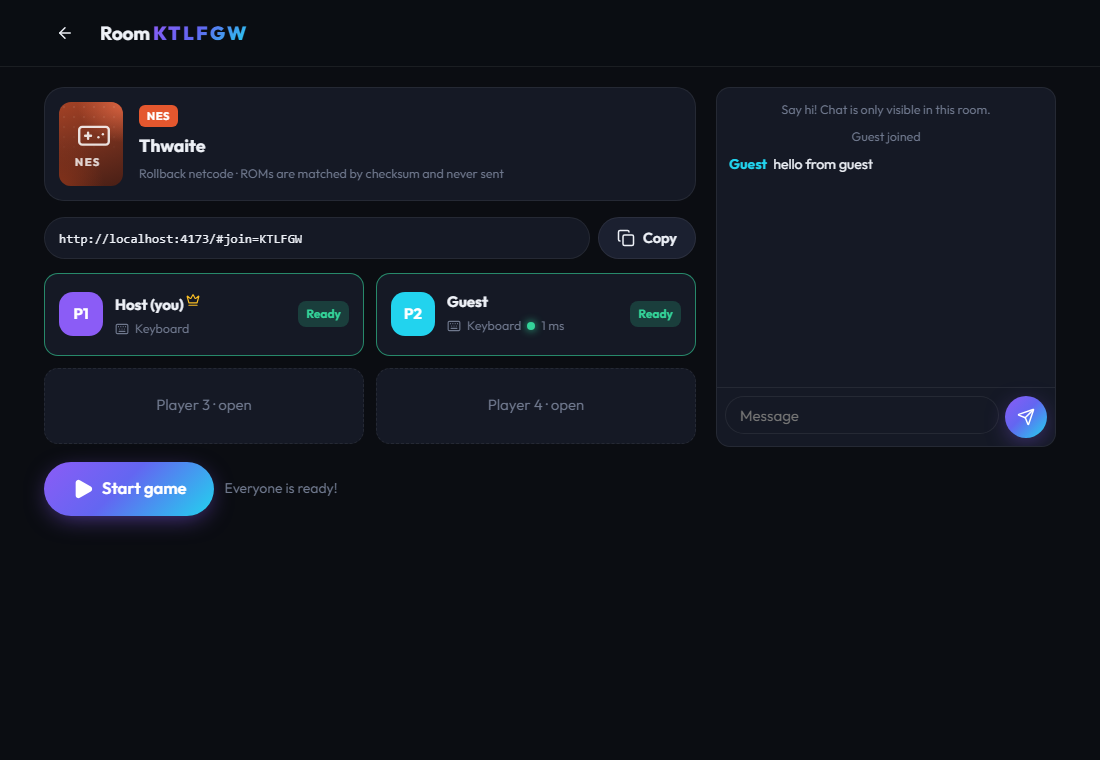
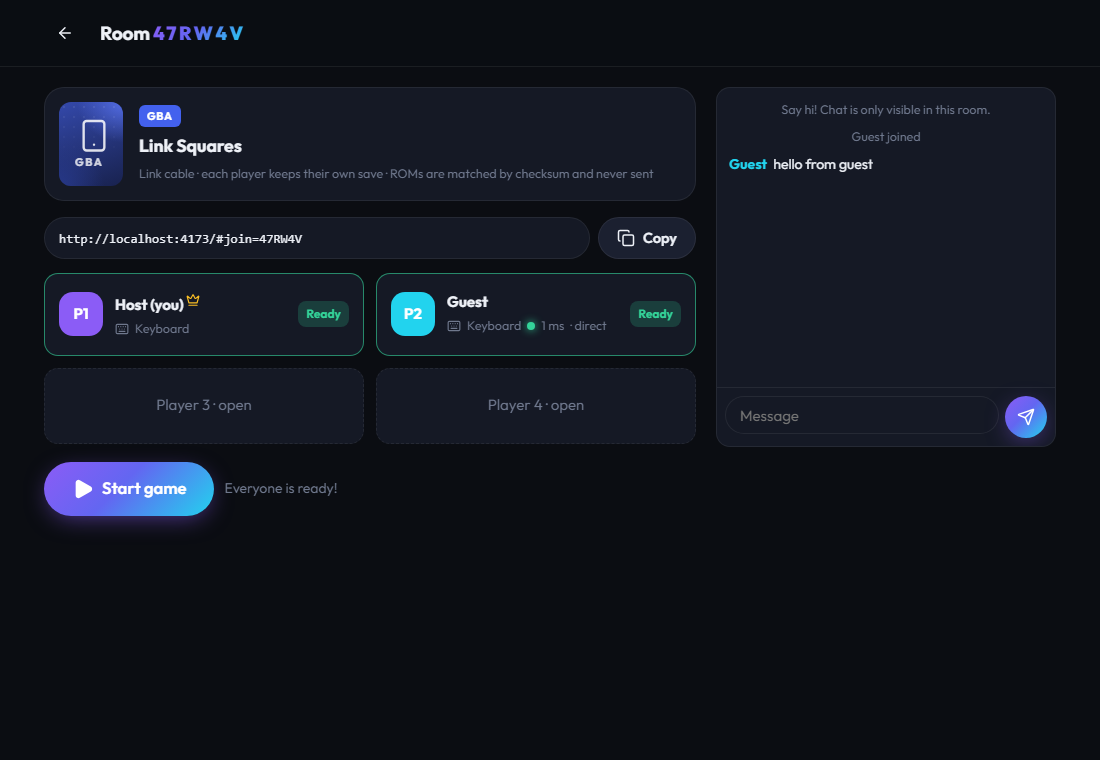
Online GBA link-cable multiplayer (2-4 players): link rooms, contiguous ports, battery-save exchange so each player keeps their own save, link core in the worker; verified in two browsers via Cloudflare
Claude-Session: https://claude.ai/code/session_01GoaTN1pd88UZCAW9Lq8UvL

diff --git a/src/net/session.ts b/src/net/session.ts
@@ -7,6 +7,9 @@ import type { Input } from '../engine/input.ts';
 import { padKind } from '../engine/input.ts';
 import { SYSTEMS } from '../engine/systems.ts';
 import { toast } from '../app/store.ts';
+import { db } from '../app/db.ts';
+
+type StartCfg = { players: number[]; delay: number; maxRollback: number; link?: boolean };
 
 export const ICE_SERVERS: RTCIceServer[] = [{ urls: ['stun:stun.l.google.com:19302', 'stun:stun1.l.google.com:19302'] }];
 
@@ -19,7 +22,8 @@ type Relay =
   | { k: 'hello'; name: string; hasRom: boolean | null; pad: string }
   | { k: 'ready'; ready: boolean } | { k: 'spectate'; on: boolean } | { k: 'chat'; text: string }
   | { k: 'lobby'; state: LobbyState } | { k: 'chatline'; line: ChatLine }
-  | { k: 'start'; players: number[]; delay: number; maxRollback: number }
+  | { k: 'start'; players: number[]; delay: number; maxRollback: number; link?: boolean }
+  | { k: 'sram'; port: number; i: number; n: number; data: string }
   | { k: 'loaded' } | { k: 'go' } | { k: 'rom'; hasRom: boolean | null }
   // fallback transport through the signaling server when no direct WebRTC channel is open
   | { k: 'net'; m: NetMsg } | { k: 'syncPart'; from: number; frame: number; i: number; n: number; data: string };
@@ -34,8 +38,11 @@ export class NetSession {
   error = '';
   private peers = new Map<string, Peer>();
   private ls = new Set<() => void>();
-  onStart?: (cfg: { players: number[]; delay: number; maxRollback: number }) => void;
-  private startCfg: { players: number[]; delay: number; maxRollback: number } | null = null;
+  onStart?: (cfg: StartCfg) => void;
+  private startCfg: StartCfg | null = null;
+  /** link play: everyone's battery save, gathered before boot (port -> chunks) */
+  private sramParts = new Map<number, string[]>();
+  private sramWaiter: (() => void) | null = null;
   private loaded = new Set<string>();
   private goResolve: (() => void) | null = null;
   private sess: Session | null = null;
@@ -200,6 +207,14 @@ export class NetSession {
   // ---------------- lobby (host authoritative) ----------------
   private onRelay(from: string, d: Relay) {
     if (d.k === 'net') { this.sess?.emu.netReceive(d.m); return; }
+    if (d.k === 'sram') {
+      const parts = this.sramParts.get(d.port) ?? [];
+      parts[d.i] = d.data;
+      this.sramParts.set(d.port, parts);
+      this.sramTotals.set(d.port, d.n);
+      this.sramWaiter?.();
+      return;
+    }
     if (d.k === 'syncPart') {
       this.syncParts[d.i] = d.data;
       if (this.syncParts.filter(Boolean).length === d.n) {
@@ -277,17 +292,19 @@ export class NetSession {
   start(opts: { inputDelay: number | 'auto'; maxRollback: number }) {
     if (!this.isHost || this.canStart()) return;
     const sys = SYSTEMS[this.state.game!.system];
-    const players = this.state.peers.filter(p => p.port !== null).map(p => p.port!).sort();
+    // renumber player slots 0..n-1 so a link cable / port list never has gaps
+    this.state.peers.filter(p => p.port !== null).sort((a, b) => a.port! - b.port!).forEach((p, i) => { p.port = i; });
+    const players = this.state.peers.filter(p => p.port !== null).map(p => p.port!).sort((a, b) => a - b);
     const worst = Math.max(0, ...this.state.peers.filter(p => p.port !== null && p.id !== this.me).map(p => p.ping));
     const oneWayFrames = worst / 2 / (1000 / 60);
     const maxRollback = sys.rollback ? opts.maxRollback : 0;
     const delay = opts.inputDelay !== 'auto' ? opts.inputDelay
       : maxRollback ? Math.min(4, Math.max(0, Math.round(oneWayFrames) - 1)) : Math.min(8, Math.max(2, Math.ceil(oneWayFrames) + 1));
-    const cfg = { players, delay, maxRollback };
+    const cfg: StartCfg = { players, delay, maxRollback, link: sys.id === 'gba' };
     this.startCfg = cfg;
     this.state.started = true;
+    this.pushLobby(); // (renumbered ports) must reach everyone before 'start'
     this.relay({ k: 'start', ...cfg });
-    this.pushLobby();
     this.onStart?.(cfg);
   }
 
@@ -300,7 +317,12 @@ export class NetSession {
       if (this.isHost) { sess.emu.netResync(); toast(`Desync at frame ${frame} — resyncing everyone`, 'rotate', 'warn'); }
       console.warn('[netplay] desync detected at frame', frame);
     });
-    await sess.start({ netplay: true });
+    if (cfg.link) {
+      // GBA link cable: each machine runs every player's GBA, each with that player's own save
+      const mine = this.mePeer?.port ?? null;
+      const srams = await this.exchangeSrams(mine, cfg.players.length);
+      await sess.start({ netplay: true, link: { players: cfg.players.length, srams, view: mine ?? 0 } });
+    } else await sess.start({ netplay: true });
     sess.emu.pause();
     const go = new Promise<void>(res => { this.goResolve = res; });
     if (this.isHost) { this.loaded.add(this.me); this.checkGo(); } else this.relay({ k: 'loaded' }, this.state.hostId);
@@ -308,6 +330,36 @@ export class NetSession {
     sess.emu.netStart({ localPort: this.mePeer?.port ?? -1, players: cfg.players, inputDelay: cfg.delay, maxRollback: cfg.maxRollback });
     await sess.emu.resume();
     toast(cfg.maxRollback ? `Online · ${cfg.delay}f delay · rollback on` : `Online · ${cfg.delay}f delay`, 'users', 'success');
+  }
+
+  /** Send our battery save to everyone and collect theirs (empty string = no save). */
+  private async exchangeSrams(mine: number | null, players: number): Promise<(ArrayBuffer | null)[]> {
+    if (mine !== null) {
+      const s = await db.sram(this.state.game!.id);
+      let bin = '';
+      if (s) for (let i = 0; i < s.length; i += 0x8000) bin += String.fromCharCode(...s.subarray(i, i + 0x8000));
+      const b64 = btoa(bin), CH = 48000, n = Math.max(1, Math.ceil(b64.length / CH));
+      for (let i = 0; i < n; i++) this.relay({ k: 'sram', port: mine, i, n, data: b64.slice(i * CH, (i + 1) * CH) });
+      this.sramParts.set(mine, [b64]);
+      this.sramTotals.set(mine, 1);
+    }
+    const ready = () => Array.from({ length: players }, (_, p) => this.sramComplete(p)).every(Boolean);
+    if (!ready()) await Promise.race([
+      new Promise<void>(res => { this.sramWaiter = () => { if (ready()) res(); }; }),
+      new Promise((_, rej) => setTimeout(() => rej(new Error("Couldn't receive every player's save data.")), 30000)),
+    ]);
+    this.sramWaiter = null;
+    return Array.from({ length: players }, (_, p) => {
+      const b64 = this.sramParts.get(p)!.join('');
+      return b64 ? Uint8Array.from(atob(b64), c => c.charCodeAt(0)).buffer as ArrayBuffer : null;
+    });
+  }
+  private sramTotals = new Map<number, number>();
+  private sramComplete(port: number) {
+    const parts = this.sramParts.get(port);
+    if (!parts) return false;
+    const n = this.sramTotals.get(port);
+    return n === undefined ? parts.length === 1 : parts.filter(x => x !== undefined).length === n;
   }
 
   private checkGo() {

diff --git a/src/app/session.ts b/src/app/session.ts
@@ -46,7 +46,7 @@ export class Session {
   constructor(public game: Game, canvas: HTMLCanvasElement) {
     this.emu = new Emulator(canvas, {
       stats: s => { this.stats = s; this.onStats?.(s); },
-      sram: d => { if (this.netplay) return; db.putSram(this.game.id, d).catch(e => this.onError?.('Could not write save data: ' + e)); },
+      sram: d => { if (this.netplay && !this.link) return; db.putSram(this.game.id, d).catch(e => this.onError?.('Could not write save data: ' + e)); },
       error: m => this.onError?.(m),
       notice: c => { if (c === 'rewind-heavy') toast('Rewind is off for this game so it runs smoothly (Settings → Advanced to force it)', 'info', 'info', 4500); },
     });
@@ -57,8 +57,12 @@ export class Session {
   private netplay = false;
 
   /** netplay: boot fresh on every machine (no SRAM/state/options) and never auto-save. */
-  async start(opts: { slot?: number; fresh?: boolean; netplay?: boolean } = {}) {
+  /** Link play: this machine runs every player's GBA; we keep writing back our own player's save. */
+  private link = false;
+
+  async start(opts: { slot?: number; fresh?: boolean; netplay?: boolean; link?: { players: number; srams: (ArrayBuffer | null)[]; view: number } } = {}) {
     this.netplay = !!opts.netplay;
+    this.link = !!opts.link;
     const sys = SYSTEMS[this.game.system];
     const cfg = this.cfg;
     const [rom, sram] = await Promise.all([romFor(this.game), opts.netplay ? undefined : db.sram(this.game.id)]);
@@ -66,7 +70,9 @@ export class Session {
     const slot = opts.fresh || opts.netplay ? undefined : opts.slot ?? (cfg.saves.resume ? AUTO_SLOT : undefined);
     if (slot !== undefined) state = await (await db.state(this.game.id, slot))?.state.arrayBuffer();
     await this.emu.start({
-      coreUrl: `${import.meta.env.BASE_URL}cores/${coreFile(sys.core)}.mjs`,
+      coreUrl: `${import.meta.env.BASE_URL}cores/${opts.link ? 'gbalink' : coreFile(sys.core)}.mjs`,
+      link: opts.link ? { roms: Array.from({ length: opts.link.players }, () => rom), srams: opts.link.srams, view: opts.link.view } : undefined,
+      strict: !!opts.netplay,
       rom, fileName: this.game.fileName,
       sram: sram ? (sram.slice().buffer as ArrayBuffer) : undefined, state,
       options: { ...(opts.netplay ? {} : cfg.coreOptions[sys.core]), ...systemOptions(sys.id, cfg) },

diff --git a/src/engine/worker.ts b/src/engine/worker.ts
@@ -2,12 +2,13 @@
 // Emulation worker: owns the core, timing, audio production, rewind and rendering.
 // The main thread sends one `tick` per requestAnimationFrame with the current input.
 import { Core, RUN_AUDIO, RUN_FF, RUN_VIDEO } from './core.ts';
+import { LinkCore } from './linkcore.ts';
 import { Renderer, type DisplayOptions } from './renderer.ts';
 import { RewindBuffer } from './rewind.ts';
 import { Rollback, type NetMsg } from '../net/rollback.ts';
 import type { ToWorker, FromWorker, FFAudio } from './protocol.ts';
 
-let core: Core;
+let core: Core | LinkCore;
 const carry = [0, 0, 0, 0];
 const silence = new Float32Array(4096 * 2);
 let revBuf = new Int16Array(0);
@@ -94,11 +95,17 @@ self.onmessage = async (e: MessageEvent<ToWorker>) => {
 
 async function init(m: Extract<ToWorker, { type: 'init' }>) {
   const factory = (await import(/* @vite-ignore */ m.coreUrl)).default;
-  core = await Core.create(factory);
-  for (const [k, v] of Object.entries(m.options ?? {})) core.setOption(k, v);
-  for (const [k, v] of Object.entries(m.systemFiles ?? {})) core.writeSystemFile(k, new Uint8Array(v));
-  if (!core.load(new Uint8Array(m.rom), m.fileName)) throw new Error('This game could not be loaded by the ' + m.coreUrl.split('/').pop()?.replace('.mjs', '') + ' core.');
-  if (m.sram) core.setSram(new Uint8Array(m.sram));
+  if (m.link) {
+    core = await LinkCore.create(factory, m.link.roms.map(r => new Uint8Array(r)), m.link.srams.map(s => s ? new Uint8Array(s) : null), m.link.view);
+  } else {
+    const c = await Core.create(factory);
+    core = c;
+    for (const [k, v] of Object.entries(m.options ?? {})) c.setOption(k, v);
+    for (const [k, v] of Object.entries(m.systemFiles ?? {})) c.writeSystemFile(k, new Uint8Array(v));
+    if (!c.load(new Uint8Array(m.rom), m.fileName)) throw new Error('This game could not be loaded by the ' + m.coreUrl.split('/').pop()?.replace('.mjs', '') + ' core.');
+    if (m.sram) c.setSram(new Uint8Array(m.sram));
+  }
+  if (m.strict) core.setStrict(true);
   S.sramCopy = core.sram()?.slice() ?? null;
   if (m.canvas) {
     renderer = new Renderer(m.canvas);

diff --git a/src/ui/Lobby.tsx b/src/ui/Lobby.tsx
@@ -72,7 +72,7 @@ export function Lobby({ nav, game: initialGame, room: joinRoom }: { nav: Nav; ga
                 <select class="input" style={{ width: '100%', borderRadius: '12px' }} value={pick} onChange={e => setPick((e.target as HTMLSelectElement).value)} aria-label="Game to host">
                   {mpGames.map(x => <option key={x.id} value={x.id}>{x.title} — {SYSTEMS[x.system].short}</option>)}
                 </select>
-                {g && <p style={{ color: 'var(--text-3)', fontSize: '13px' }}>{SYSTEMS[g.system].rollback ? 'Rollback netcode · ' : 'Delay-based netcode · '}up to {SYSTEMS[g.system].maxPlayers} players + spectators</p>}
+                {g && <p style={{ color: 'var(--text-3)', fontSize: '13px' }}>{g.system === 'gba' ? 'Emulated link cable (trades, link battles, multiplayer games) · ' : SYSTEMS[g.system].rollback ? 'Rollback netcode · ' : 'Delay-based netcode · '}up to {SYSTEMS[g.system].maxPlayers} players + spectators</p>}
                 <button class="btn primary" disabled={busy || !g} onClick={() => connect({ create: g })} data-autofocus><Users />Create room</button>
               </>}
             </div>
@@ -128,7 +128,7 @@ export function Lobby({ nav, game: initialGame, room: joinRoom }: { nav: Nav; ga
                 <div style={{ flex: 1, minWidth: '0px' }}>
                   <SysBadge system={st.game.system} />
                   <h3 style={{ margin: '6px 0 2px' }}>{st.game.title}</h3>
-                  <small style={{ color: 'var(--text-3)' }}>{sys?.rollback ? 'Rollback netcode' : 'Delay-based netcode'} · ROMs are matched by checksum and never sent</small>
+                  <small style={{ color: 'var(--text-3)' }}>{st.game.system === 'gba' ? 'Link cable · each player keeps their own save' : sys?.rollback ? 'Rollback netcode' : 'Delay-based netcode'} · ROMs are matched by checksum and never sent</small>
                 </div>
               </div>
             )}

diff --git a/src/app/library.ts b/src/app/library.ts
@@ -15,6 +15,7 @@ export const HOMEBREW: Homebrew[] = [
   { file: 'sgdk-cube3d.gen', title: 'Cube 3D', system: 'genesis', author: 'Stephane Dallongeville (SGDK sample)', license: 'MIT', url: 'https://github.com/Stephane-D/SGDK', blurb: 'Real-time 3D rendering demo for the Mega Drive.' },
   { file: 'sgdk-partic.gen', title: 'Particles', system: 'genesis', author: 'Stephane Dallongeville (SGDK sample)', license: 'MIT', url: 'https://github.com/Stephane-D/SGDK', blurb: 'Hundreds of bitmap particles bouncing around.' },
   { file: 'kaiser-ds-demo.nds', title: 'Kaiser DS Demo', system: 'nds', author: 'Kaiser project (original)', license: 'GPL-3.0', url: 'https://github.com/Dinkeres/nextgen-emulator/tree/main/homebrew-src/ds-demo', blurb: 'Spin a 3D cube on the top screen and paint with the stylus on the touch screen.' },
+  { file: 'kaiser-link-squares.gba', title: 'Link Squares', system: 'gba', author: 'Kaiser project (original)', license: 'GPL-3.0', url: 'https://github.com/Dinkeres/nextgen-emulator/tree/main/homebrew-src/gba-link', blurb: 'A 2–4 player link-cable test: everyone moves a square and sees each other live. Try it in Multiplayer!' },
   { file: '240pee_mb.gba', title: '240p Test Suite', system: 'gba', author: 'Damian Yerrick & Artemio Urbina', license: 'GPL-2.0', url: 'https://github.com/pinobatch/240p-test-mini', blurb: 'Display and input calibration patterns for the GBA.' },
 ];
 

diff --git a/src/engine/linkcore.ts b/src/engine/linkcore.ts
@@ -10,6 +10,7 @@ export class LinkCore {
   private m: Mod;
   av!: AVInfo;
   readonly players: number;
+  private view = 0;
   private stateBuf = 0;
   private stateCap = 0;
 
@@ -31,11 +32,12 @@ export class LinkCore {
     srams.forEach((s, i) => { if (s?.length) c.setSram(s, i); });
     m._lk_link();
     m._lk_set_view(view);
+    c.view = view;
     c.av = { width: 240, height: 160, maxWidth: 240, maxHeight: 160, aspect: 3 / 2, fps: 16777216 / 280896, sampleRate: m._lk_sample_rate() };
     return c;
   }
 
-  setView(i: number) { this.m._lk_set_view(i); }
+  setView(i: number) { this.m._lk_set_view(i); this.view = i; }
   run(flags = 3) { this.m._lk_run(flags); }
   reset() { this.m._lk_reset(); }
   setInput(port: number, mask: number) { this.m._lk_set_input(port, mask); }
@@ -71,13 +73,13 @@ export class LinkCore {
   }
 
   /** Battery save of one player's GBA (copy), or null. */
-  sram(player = 0): Uint8Array | null {
+  sram(player = this.view): Uint8Array | null {
     const n = this.m._lk_sram_clone(player);
     if (!n) return null;
     const p = this.m._lk_sram_ptr();
     return this.m.HEAPU8.slice(p, p + n);
   }
-  setSram(data: Uint8Array, player = 0) {
+  setSram(data: Uint8Array, player = this.view) {
     const p = this.m._malloc(data.length);
     this.m.HEAPU8.set(data, p);
     this.m._lk_sram_restore(player, p, data.length);

diff --git a/src/engine/emulator.ts b/src/engine/emulator.ts
@@ -15,6 +15,8 @@ export interface StartOptions {
   state?: ArrayBuffer;
   options?: Record<string, string>;
   systemFiles?: Record<string, ArrayBuffer>;
+  link?: { roms: ArrayBuffer[]; srams: (ArrayBuffer | null)[]; view: number };
+  strict?: boolean;
   display: DisplayOptions;
   volume: number;
   latencyMs: number;
@@ -95,7 +97,7 @@ export class Emulator {
       type: 'init', coreUrl: new URL(o.coreUrl, location.href).href, rom, fileName: o.fileName,
       canvas: offscreen, display: o.display,
       audio: { rate: this.ctx.sampleRate, latencyMs: o.latencyMs, sab, port, capacity: AUDIO_CAP },
-      options: o.options, systemFiles: o.systemFiles, sram: o.sram, state: o.state, rewind: o.rewind,
+      options: o.options, systemFiles: o.systemFiles, sram: o.sram, state: o.state, rewind: o.rewind, link: o.link, strict: o.strict,
     };
     const transfer: Transferable[] = [rom];
     if (offscreen) transfer.push(offscreen);

diff --git a/src/engine/protocol.ts b/src/engine/protocol.ts
@@ -15,6 +15,10 @@ export type ToWorker =
       options?: Record<string, string>; sram?: ArrayBuffer; state?: ArrayBuffer;
       /** user-supplied BIOS/firmware written to /system before the game loads */
       systemFiles?: Record<string, ArrayBuffer>;
+      /** GBA link play: every player's ROM and battery save; `view` = whose screen/sound this machine shows */
+      link?: { roms: ArrayBuffer[]; srams: (ArrayBuffer | null)[]; view: number };
+      /** deterministic from the first frame (netplay) */
+      strict?: boolean;
       rewind?: { enabled: boolean; seconds: number; budgetMB: number; heavy?: boolean };
     }
   /** stylus: [x, y, down] normalized to the canvas (0..1), for touch-screen systems */

diff --git a/src/engine/systems.ts b/src/engine/systems.ts
@@ -47,7 +47,9 @@ export const SYSTEMS: Record<string, SystemInfo> = {
   gba: {
     id: 'gba', name: 'Game Boy Advance', short: 'GBA', core: 'mgba',
     exts: ['gba'], color: '#4361ee',
-    buttons: [...DPAD, 'B', 'A', 'L', 'R', 'SELECT', 'START'], rollback: false, maxPlayers: 1,
+    buttons: [...DPAD, 'B', 'A', 'L', 'R', 'SELECT', 'START'],
+    // online play = emulated link cable between up to 4 GBAs (delay-based; see DECISIONS.md)
+    rollback: false, maxPlayers: 4,
   },
   nds: {
     id: 'nds', name: 'Nintendo DS', short: 'DS', core: 'melonds',
